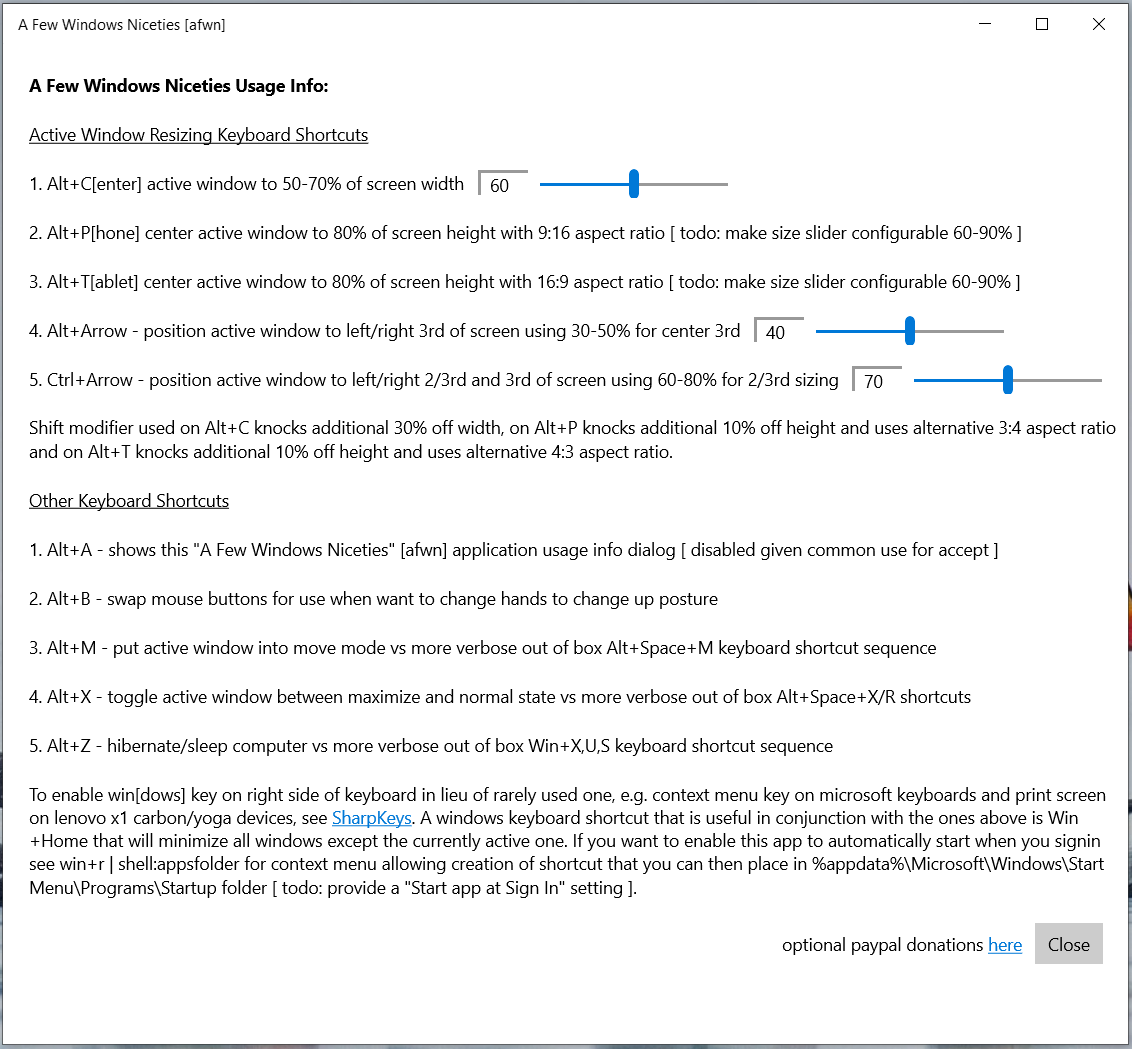
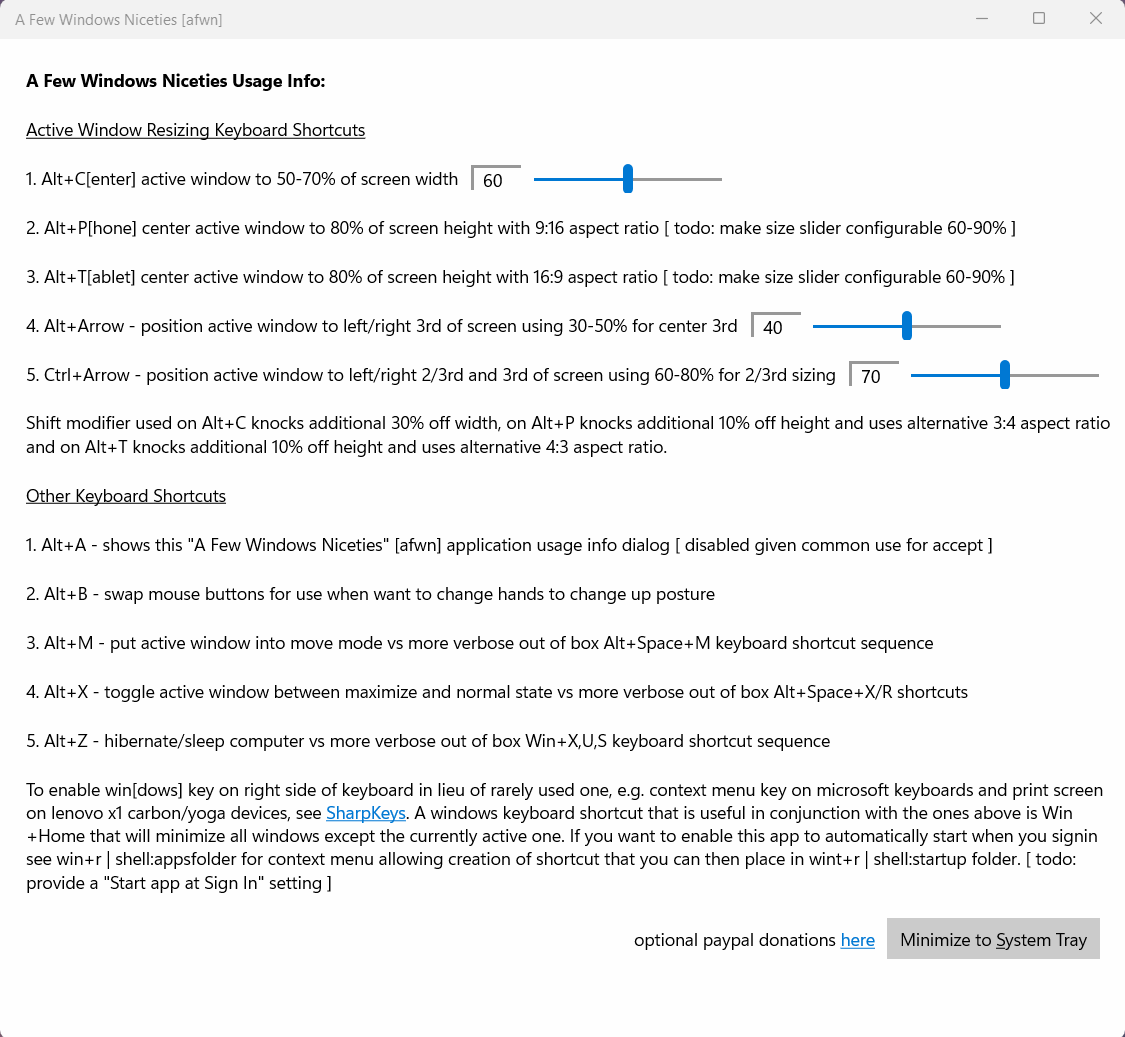
saving screenshots and button hotkey updates

Changed region(s): [[0.0, 0.0, 1.0, 1.0], [0.0, 0.0617, 0.9022, 0.3703], [0.8711, 0.3394, 0.9022, 0.3703]]

diff --git a/SystrayExtension/MainPage.xaml b/SystrayExtension/MainPage.xaml
@@ -82,8 +82,8 @@
             </TextBlock>-->
             <StackPanel Orientation="Horizontal" Margin="10,0,20,20" HorizontalAlignment="Right">
                 <TextBlock VerticalAlignment="Center">optional paypal donations <Hyperlink NavigateUri="https://paypal.me/ob1cot">here</Hyperlink></TextBlock>
-                <Button Name="close" AccessKey="S" Click="close_Click" Margin="10, 0, 0, 20">Minimize to System Tray</Button>
-                <!--<Button Name="exit" AccessKey="i" Click="exit_Click" Margin="10, 0, 0, 20">Exit</Button>--> <!-- irrelevant as close/exit same thing in this case -->
+                <Button Name="close" AccessKey="S" Click="close_Click" Margin="10, 0, 0, 20"><TextBlock Margin="0, 0, 0, 0">Minimize to <Underline>S</Underline>ystem Tray</TextBlock></Button>
+                <!--<Button Name="exit" AccessKey="i" Click="exit_Click" Margin="10, 0, 0, 20"><TextBlock Margin="0, 0, 0, 0">Ex<Underline>i</Underline>t</TextBlock></Button>--> <!-- irrelevant as close/exit same thing in this case -->
             </StackPanel>
         </StackPanel>
     </Grid>

diff --git a/SystrayComponent/Form1.cs b/SystrayComponent/Form1.cs
@@ -52,19 +52,21 @@ namespace SystrayComponent
 
         private void button3_Click(object sender, System.EventArgs e)
         {
-//https://www.winhelponline.com/blog/clear-customize-notifications-tray-items-windows-7-vista-xp/
-//reg delete "hkcu\Software\Classes\Local Settings\Software\Microsoft\Windows\CurrentVersion\TrayNotify" /v IconStreams /f
-//reg delete "hkcu\Software\Classes\Local Settings\Software\Microsoft\Windows\CurrentVersion\TrayNotify" /v PastIconStream /f [not PromotedIconCache]
-//kill explorer.exe & explorer.exe[which appears to work from non-admin process context but registry key deletions is going to be a problem since uwp blocks that so
+//https://winhelponline.com/blog/clear-customize-notifications-tray-items-windows-7-vista-xp/
+//from admin prompt for %i in ( IconStreams PastIconsStream PromotedIconCache ) do (
+//  reg delete "hkcu\Software\Classes\Local Settings\Software\Microsoft\Windows\CurrentVersion\TrayNotify" /v %i /f )
+//then from non-admin prompt pskill explorer & explorer to refresh win+i [ settings ] | personalization | taskbar | other system tray icons list
+//can execute from SystrayComponent .net framework winforms app and not SystrayExtension uwp xaml app as it blocks uac permission escalation prompts
             string keyName = @"Software\Classes\Local Settings\Software\Microsoft\Windows\CurrentVersion\TrayNotify";
             using (RegistryKey key = Registry.CurrentUser.OpenSubKey(keyName, true))
             {
                 if (key != null)
                 {
                     if (key.GetValue("IconStreams") != null) key.DeleteValue("IconStreams");
-                    if (key.GetValue("PastIconStream") != null) key.DeleteValue("PastIconStream");  // typically not present
-                    foreach (var process in Process.GetProcessesByName("explorer")) process.Kill(); // typically only one
-                    //Process.Start("%windir%\\explorer.exe"); // restarted automatically unlike when you kill using command line
+                    if (key.GetValue("PastIconStream") != null) key.DeleteValue("PastIconsStream");
+                    if (key.GetValue("PromotedIconCache") != null) key.DeleteValue("PromotedIconCache");
+                    foreach (var process in Process.GetProcessesByName("explorer")) process.Kill(); // typically only one instance
+                    //Process.Start("%windir%\\explorer.exe"); // restarted automatically unlike when you use pskill on command line
                 }
             }
 

diff --git a/README.md b/README.md
@@ -23,15 +23,21 @@ The current release is available in the microsoft store. The benefit of installi
 - For Package_StoreAssociation.xml see Package | Publish | Associate App with the Store | Include apps that already have packages = checked | Refresh | &lt;select existing published app entry&gt; | Asssociate -&gt; Package.StoreAssociation.xml and 'create or get uwp store pfx' -&gt; https://stackoverflow.com/questions/42209953/how-to-create-or-get-a-new-storekey-pfx-for-uwp-application   
 - Select store app package project with build configuration Deploy enabled, in this case Package, or Uwp System Tray project, in this case SysTray_Component, and choose 'Set as Startup Project' 
 - Press F5 to Start Debugging or Ctrl+F5 to Start Without Debugging
-  
-Samples, and comments q&a, that facilitated this work can be found at: https://stefanwick.com/2017/06/24/uwp-app-with-systray-extension/   
-https://stefanwick.com/2018/04/06/uwp-with-desktop-extension-part-1/ getting started, part-2 launching with params, part-3 communicating between components, part-4 submitting to the store  
-https://stefanwick.com/2018/05/15/global-hotkey-registration-in-uwp/   
-  
-Current screenshots with usage information dialog: [./Package/Images/Screenshot Combined.png](./Package/Images/Screenshot%20combined.png)  
 
-[comment]: # (![alt text](./Package/Images/Screenshot%20combined.png "Screenshot Combined Image"\))
-
+# Publish new Build to Store
+- Package | Package.appxmanifest | Packaging | Version | Build increment by 1
+- Change build target to Release | x86 and use Ctrl+F5 to Start Without Debugging to capture updates for Package | Images | Screenshot 1-3.png and paste in OneNote to capture update for [Screenshot Combined.png](./Package/Images/Screenshot%20combined.png)
+- Package | Publish | Create App Packages | how will you distribute = Microsoft Store as &lt;existing published app name&gt; | Neutral Release (ARM64) or x86 Release (x86) | Create
+- (Partner Center Apps and Games)[https://partner.microsoft.com/dashboard/products] | &lt;existing published app name&gt;
+  
+# Samples, and comments q&a, that facilitated this work 
+- https://stefanwick.com/2017/06/24/uwp-app-with-systray-extension/  
+- https://stefanwick.com/2018/04/06/uwp-with-desktop-extension-part-1/ getting started, part-2 launching with params, part-3 communicating between components, part-4 submitting to the store  
+- https://stefanwick.com/2018/05/15/global-hotkey-registration-in-uwp/  
+- https://winhelponline.com/blog/clear-customize-notifications-tray-items-windows-7-vista-xp/ outlining how to clear system tray icons of no longer installed applications  
+from admin prompt for %i in ( IconStreams PastIconsStream PromotedIconCache ) do ( reg delete "hkcu\Software\Classes\Local Settings\Software\Microsoft\Windows\CurrentVersion\TrayNotify" /v %i /f )  
+then from non-admin prompt pskill explorer.exe & explorer.exe to refresh win+i [ settings ] | personalization | taskbar | other system tray icons list  
+  
 # Feature and Fix updates
 09/04/22 - build updates and feature updates
 1. Package | Properties | Package | Target Version updated to current 10.0.22621 [ 22h2 ] from 10.0.17663.0 [ 1809 oct 2018 update ] and Min Version updated to 10.0.17663.0 from 16299.0 [ 1709 fall 2017 creators update ]  
